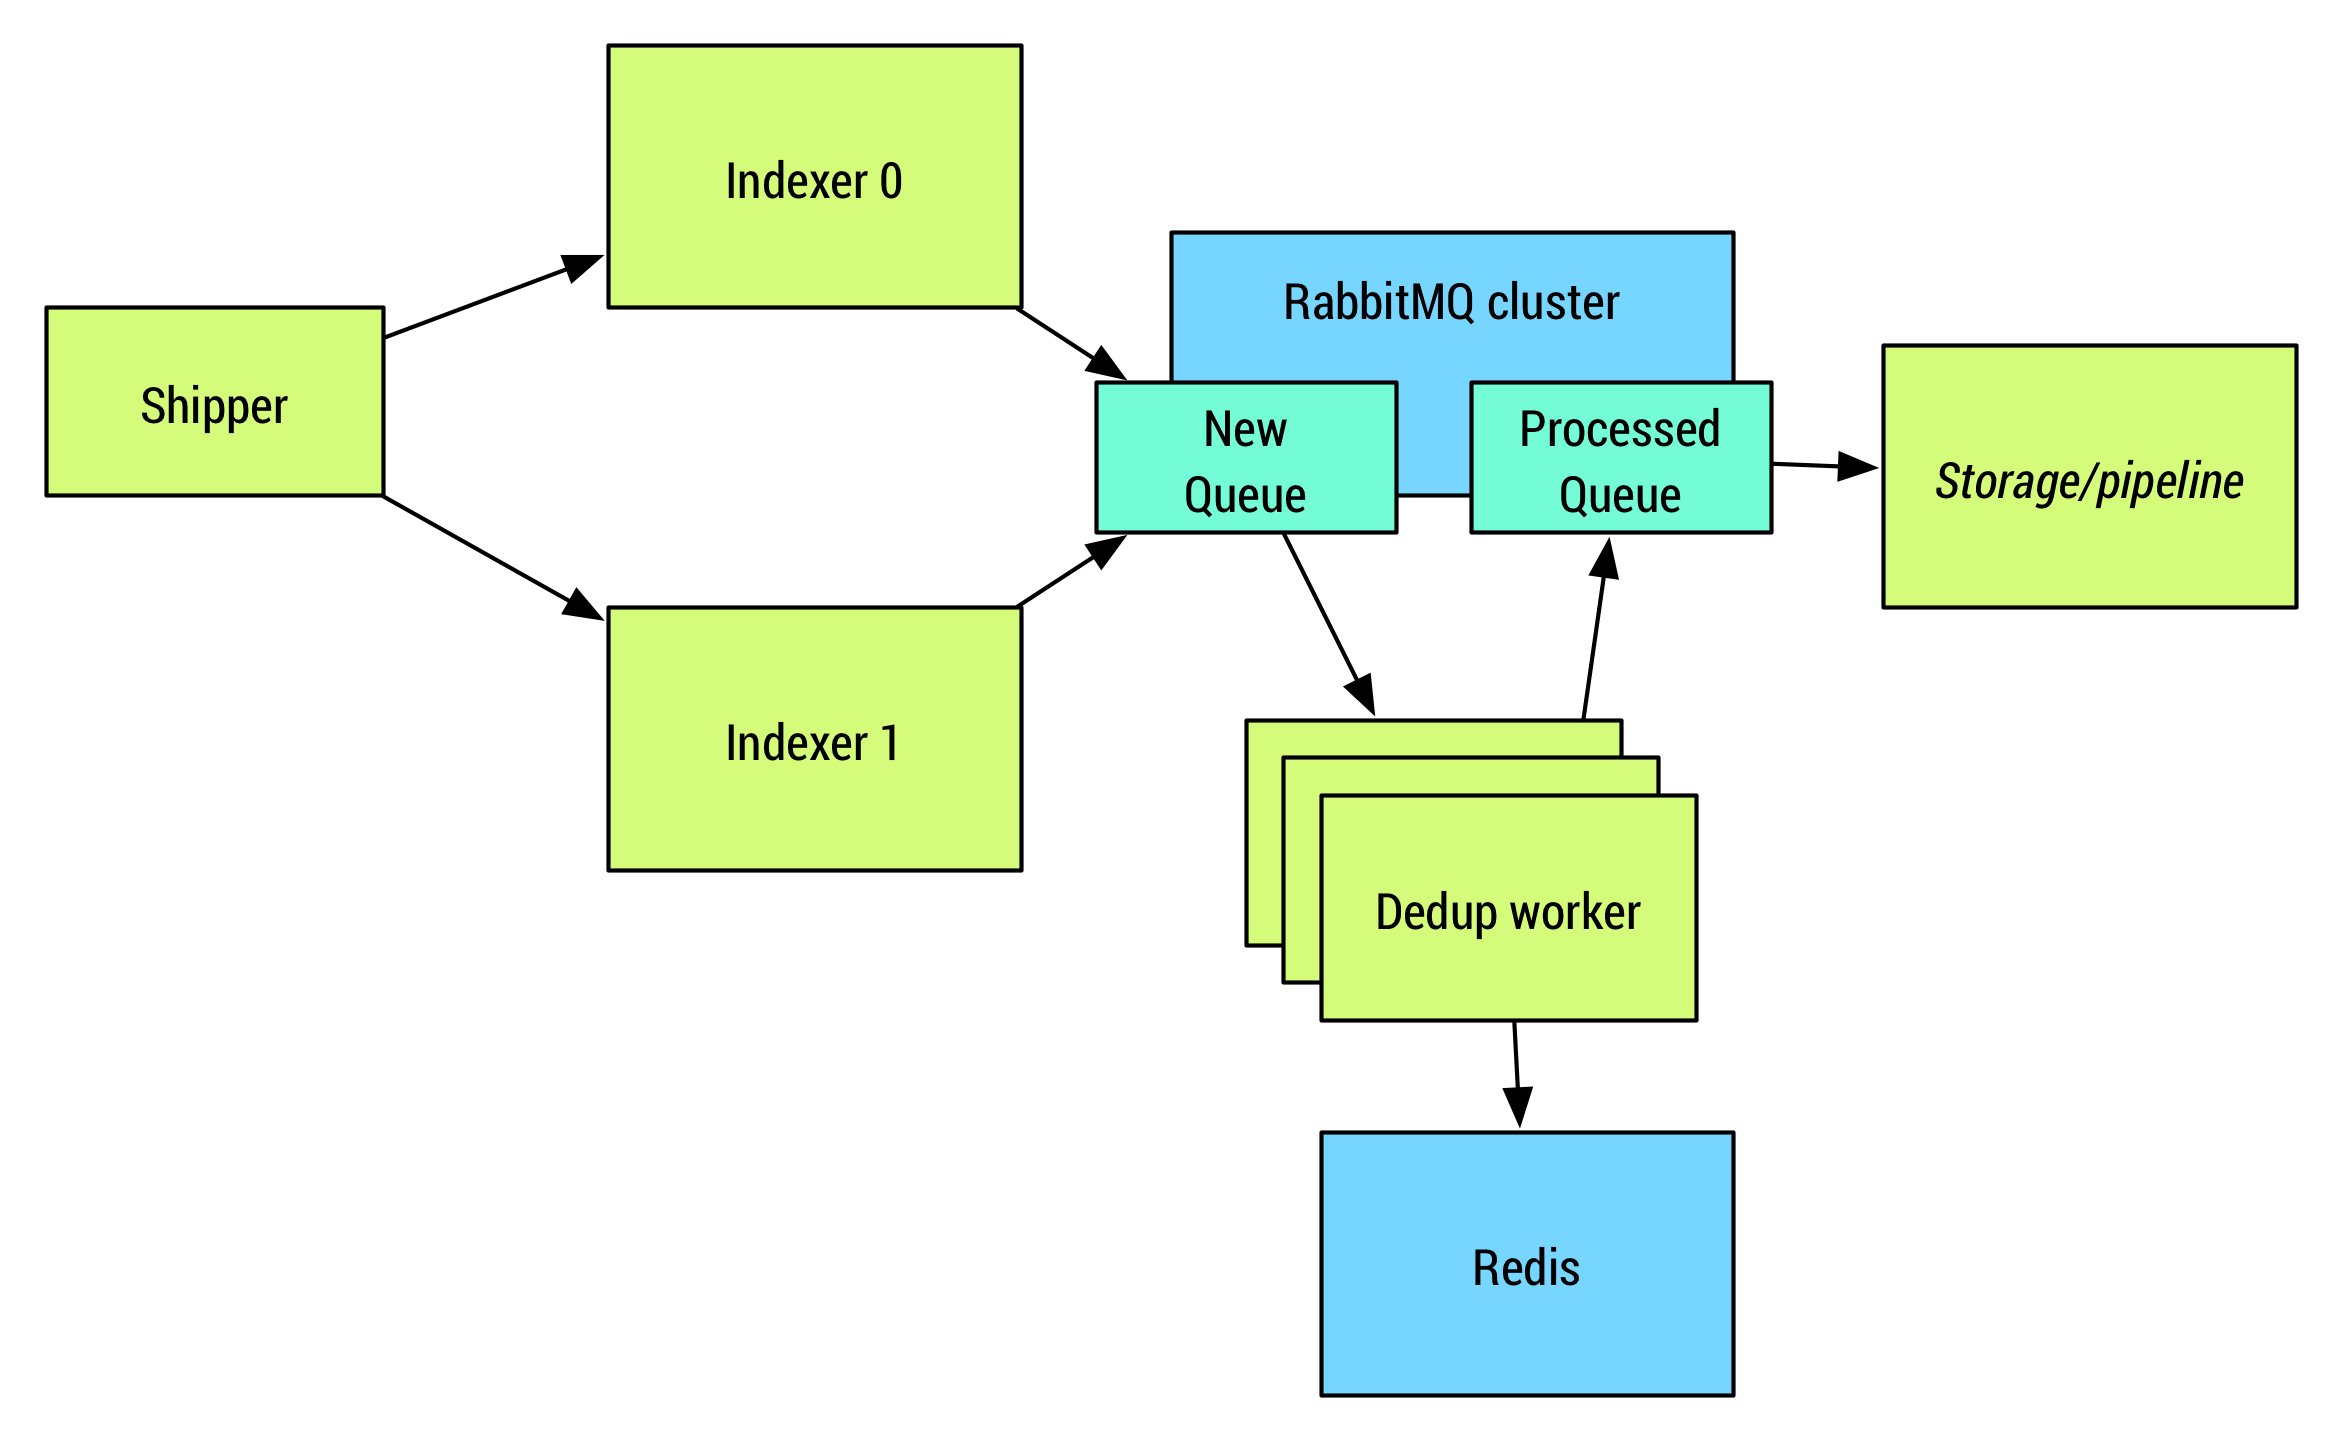
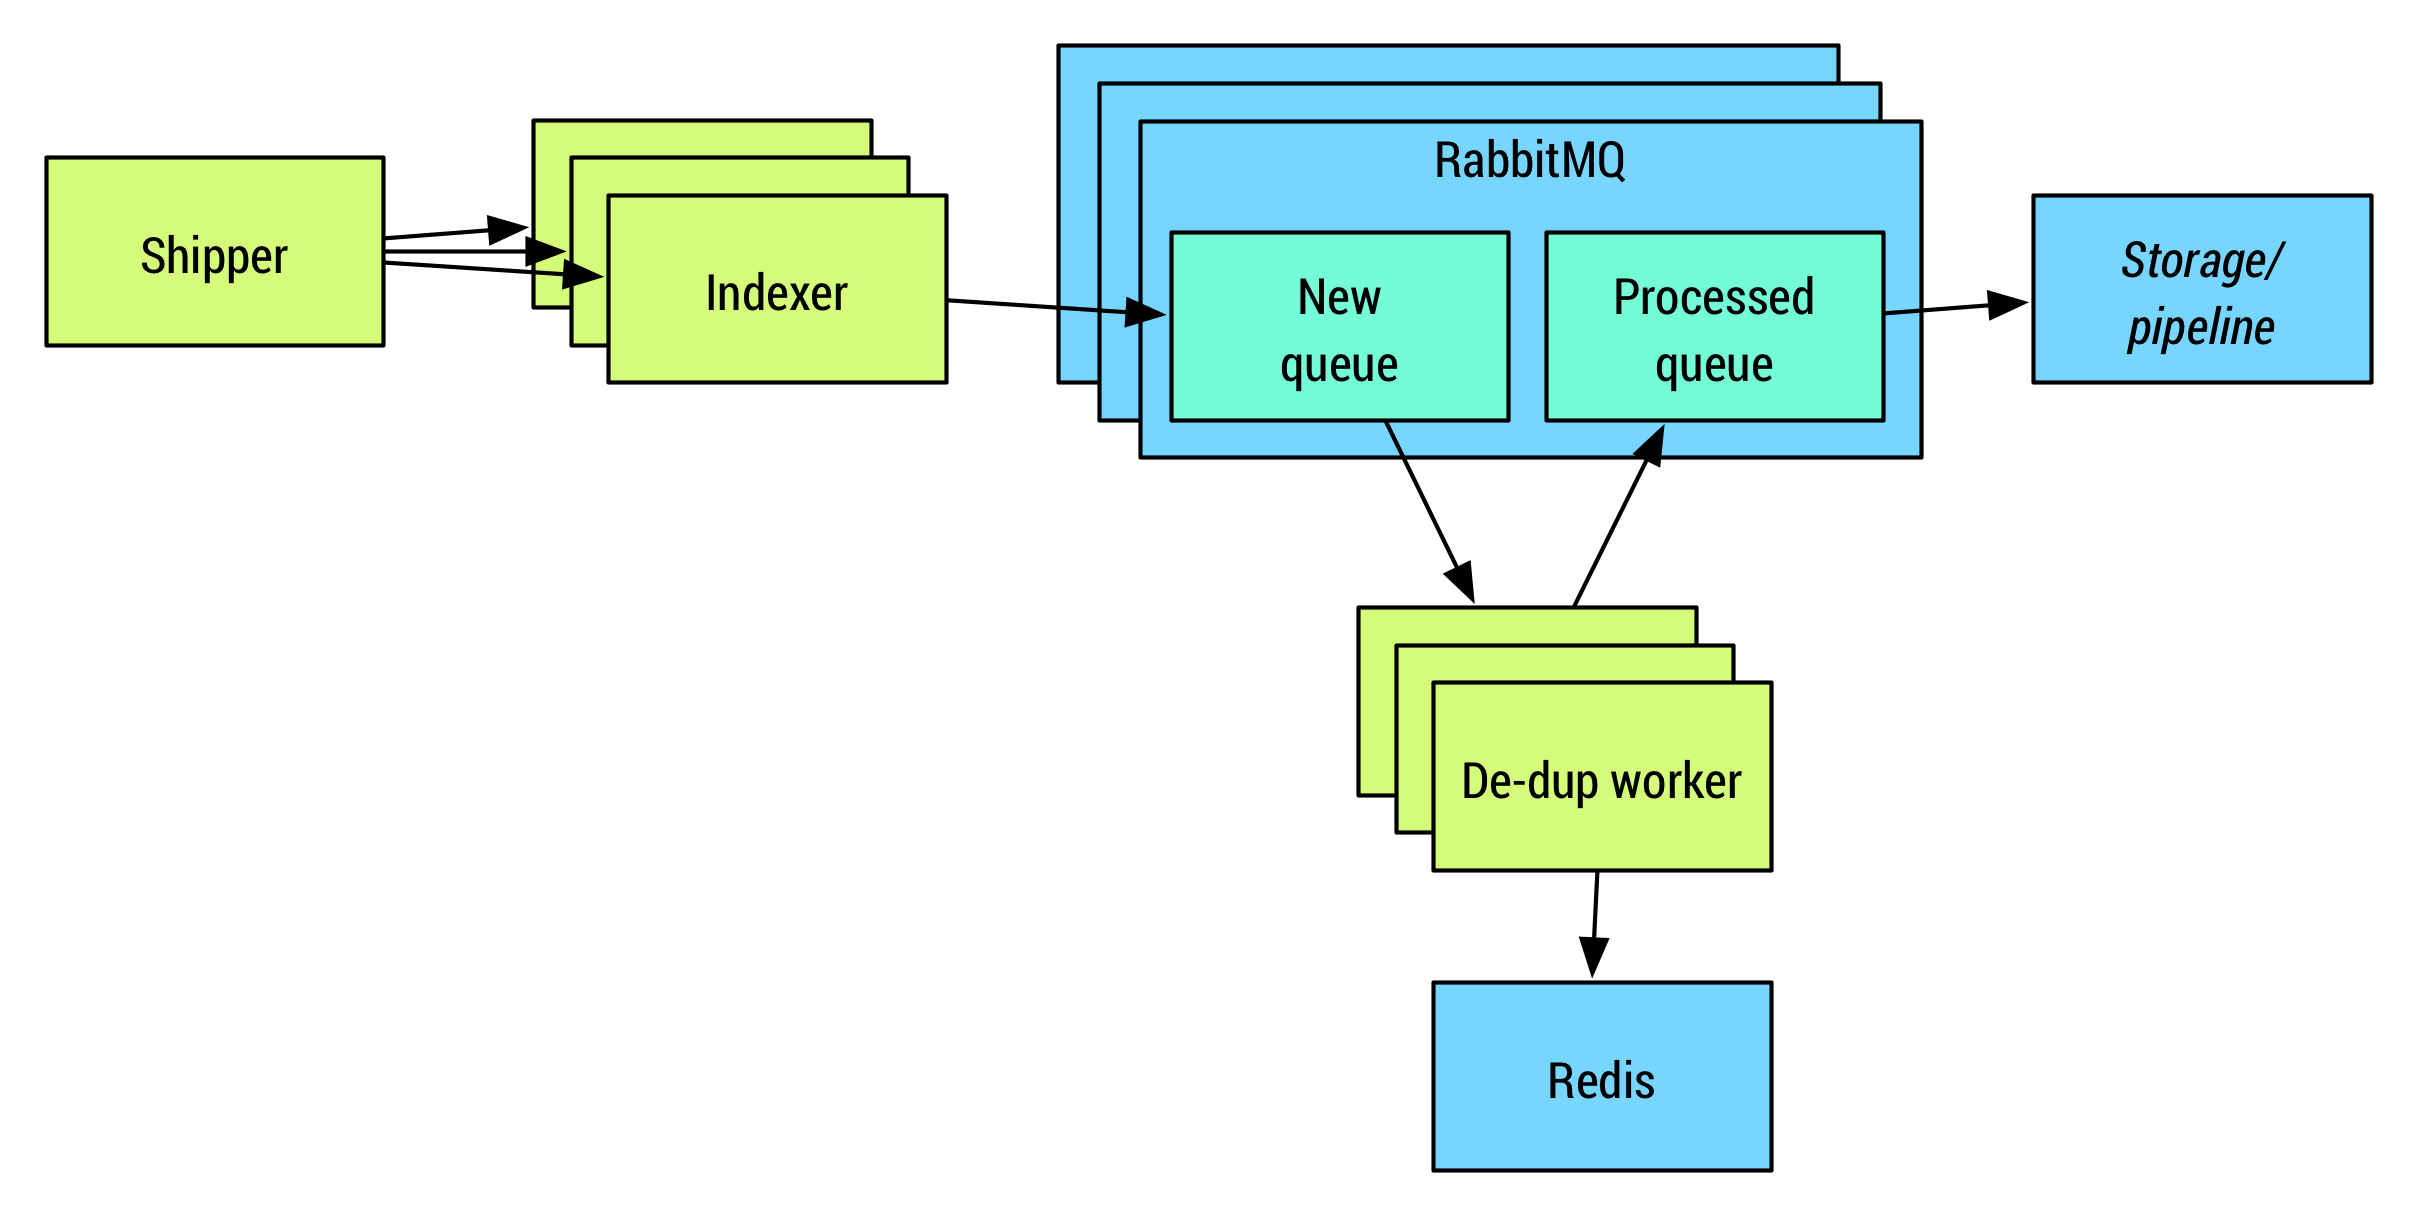
Updated post

diff --git a/_assets/stylesheets/main.scss b/_assets/stylesheets/main.scss
@@ -11,7 +11,7 @@ $font-family-sans-serif: "Roboto", monospace;
 
 $brand-primary: #009999;
 
-$body-bg: #eaeaea;
+$body-bg: #fff;
 $blockquote-border-color: darken($body-bg, 5%);
 $hr-border: darken($body-bg, 5%);
 

diff --git a/_posts/2014-08-02-ha-syslog.md b/_posts/2014-08-02-ha-syslog.md
@@ -5,6 +5,8 @@ date: 2014-08-02 18:41:00
 comments: true
 ---
 
+_Corrections made based off of feedback from commenters on the [Reddit post](http://www.reddit.com/r/sysadmin/comments/2cgymp/the_state_of_highlyavailable_syslog/)._
+
 So, you've played with Logstash or one of the multitude of other log aggregation tools (Flume, Fluentd, rsyslog, syslog-ng, etc.) Now you want to start shipping logs from your networking and legacy devices to your logging infrastructure. For most situations, you can just turn on a syslog receiver on your indexer and point your shipper at it. However, when you have to perform maintenance or your indexer experiences downtime, log loss may occur.
 
 There are a lot of different situations at hand that can affect the solution you use for minimizing or eliminating log loss.
@@ -19,7 +21,7 @@ There are a lot of different situations at hand that can affect the solution you
 There are a few things I've noticed in regards to the current landscape of networking devices and logging.
 
 - Network devices generally support both TCP and UDP syslog
-- For the most part, network devices only support one receiver (except for high-end devices, like the Cisco ASA series)
+- Business-class devices (SANs, firewalls, L3 switches, routers, etc.) generally support fanout to multiple syslog receivers
 - I don't know of any network devices that support receiver failover
 
 When it comes to journaling, some receivers come really close.
@@ -67,7 +69,23 @@ Note that this topology will result in event loss if the indexer crashes, but th
 
 ### Active/active
 
-Sometimes log loss is unacceptable, like when dealing with strict auditing requirements. In this case, you would need to stand up multiple receivers, then have your shipper fanout events to them all. Of course, you'll need to perform some time of de-duplication on the log stream. I couldn't find any log indexers that had built-in de-duplication, so I came up with a scalable solution you can place into your logging pipeline. Obviously if your indexer has this feature, you can stop reading and go use that right now. Otherwise, continue on...
+Sometimes log loss is unacceptable, like when dealing with strict auditing requirements. In this case, you would need to stand up multiple receivers, then have your shipper fanout events to them all. Of course, you'll need to perform some kind of de-duplication on the log stream.
+
+There are different places in your pipeline you can perform de-duplication:
+
+- In a message queue shared between the first line of receivers
+- In a downstream indexer
+- In the database that the logs get persisted
+
+Obviously the further up the pipeline you can do de-duplication, the more efficient your remaining pipeline elements can be.
+
+To perform de-duplication after the first line of receivers, you will need to have them push all the events into a queue on RabbitMQ. You can then have a set of workers perform de-duplication and push the unique events into a queue that your downstream indexers use. I describe this solution further down in the post.
+
+When it comes to the log indexers themselves, I couldn't find any that directly support de-duplication. However, if your log indexer has a filter that can hash the event to introduce a unique identifier, you can combine that with a de-duplicating database. I was informed by [ragzilla](http://www.reddit.com/user/ragzilla) on Reddit of this approach. Logstash provides a [checksum filter](http://logstash.net/docs/1.4.2/filters/checksum) that can be used with an Elasticsearch output. The checksum will be used as the document ID which means that when events are inserted into Elasticsearch, it will only accept the first unique event. This will be the easiest solution by far, especially if you only have the front-line receivers and Elasticsearch in your pipeline.
+
+### De-duplicating workers
+
+If your pipeline is more complex, you may need to introduce your own de-duplication solution earlier in the logging pipeline. This solution should scale to high volumes of logs, but will take a bit of thought to implement.
 
 ![De-duplication with multiple receivers](/images/ha-syslog-dedup.png)
 
